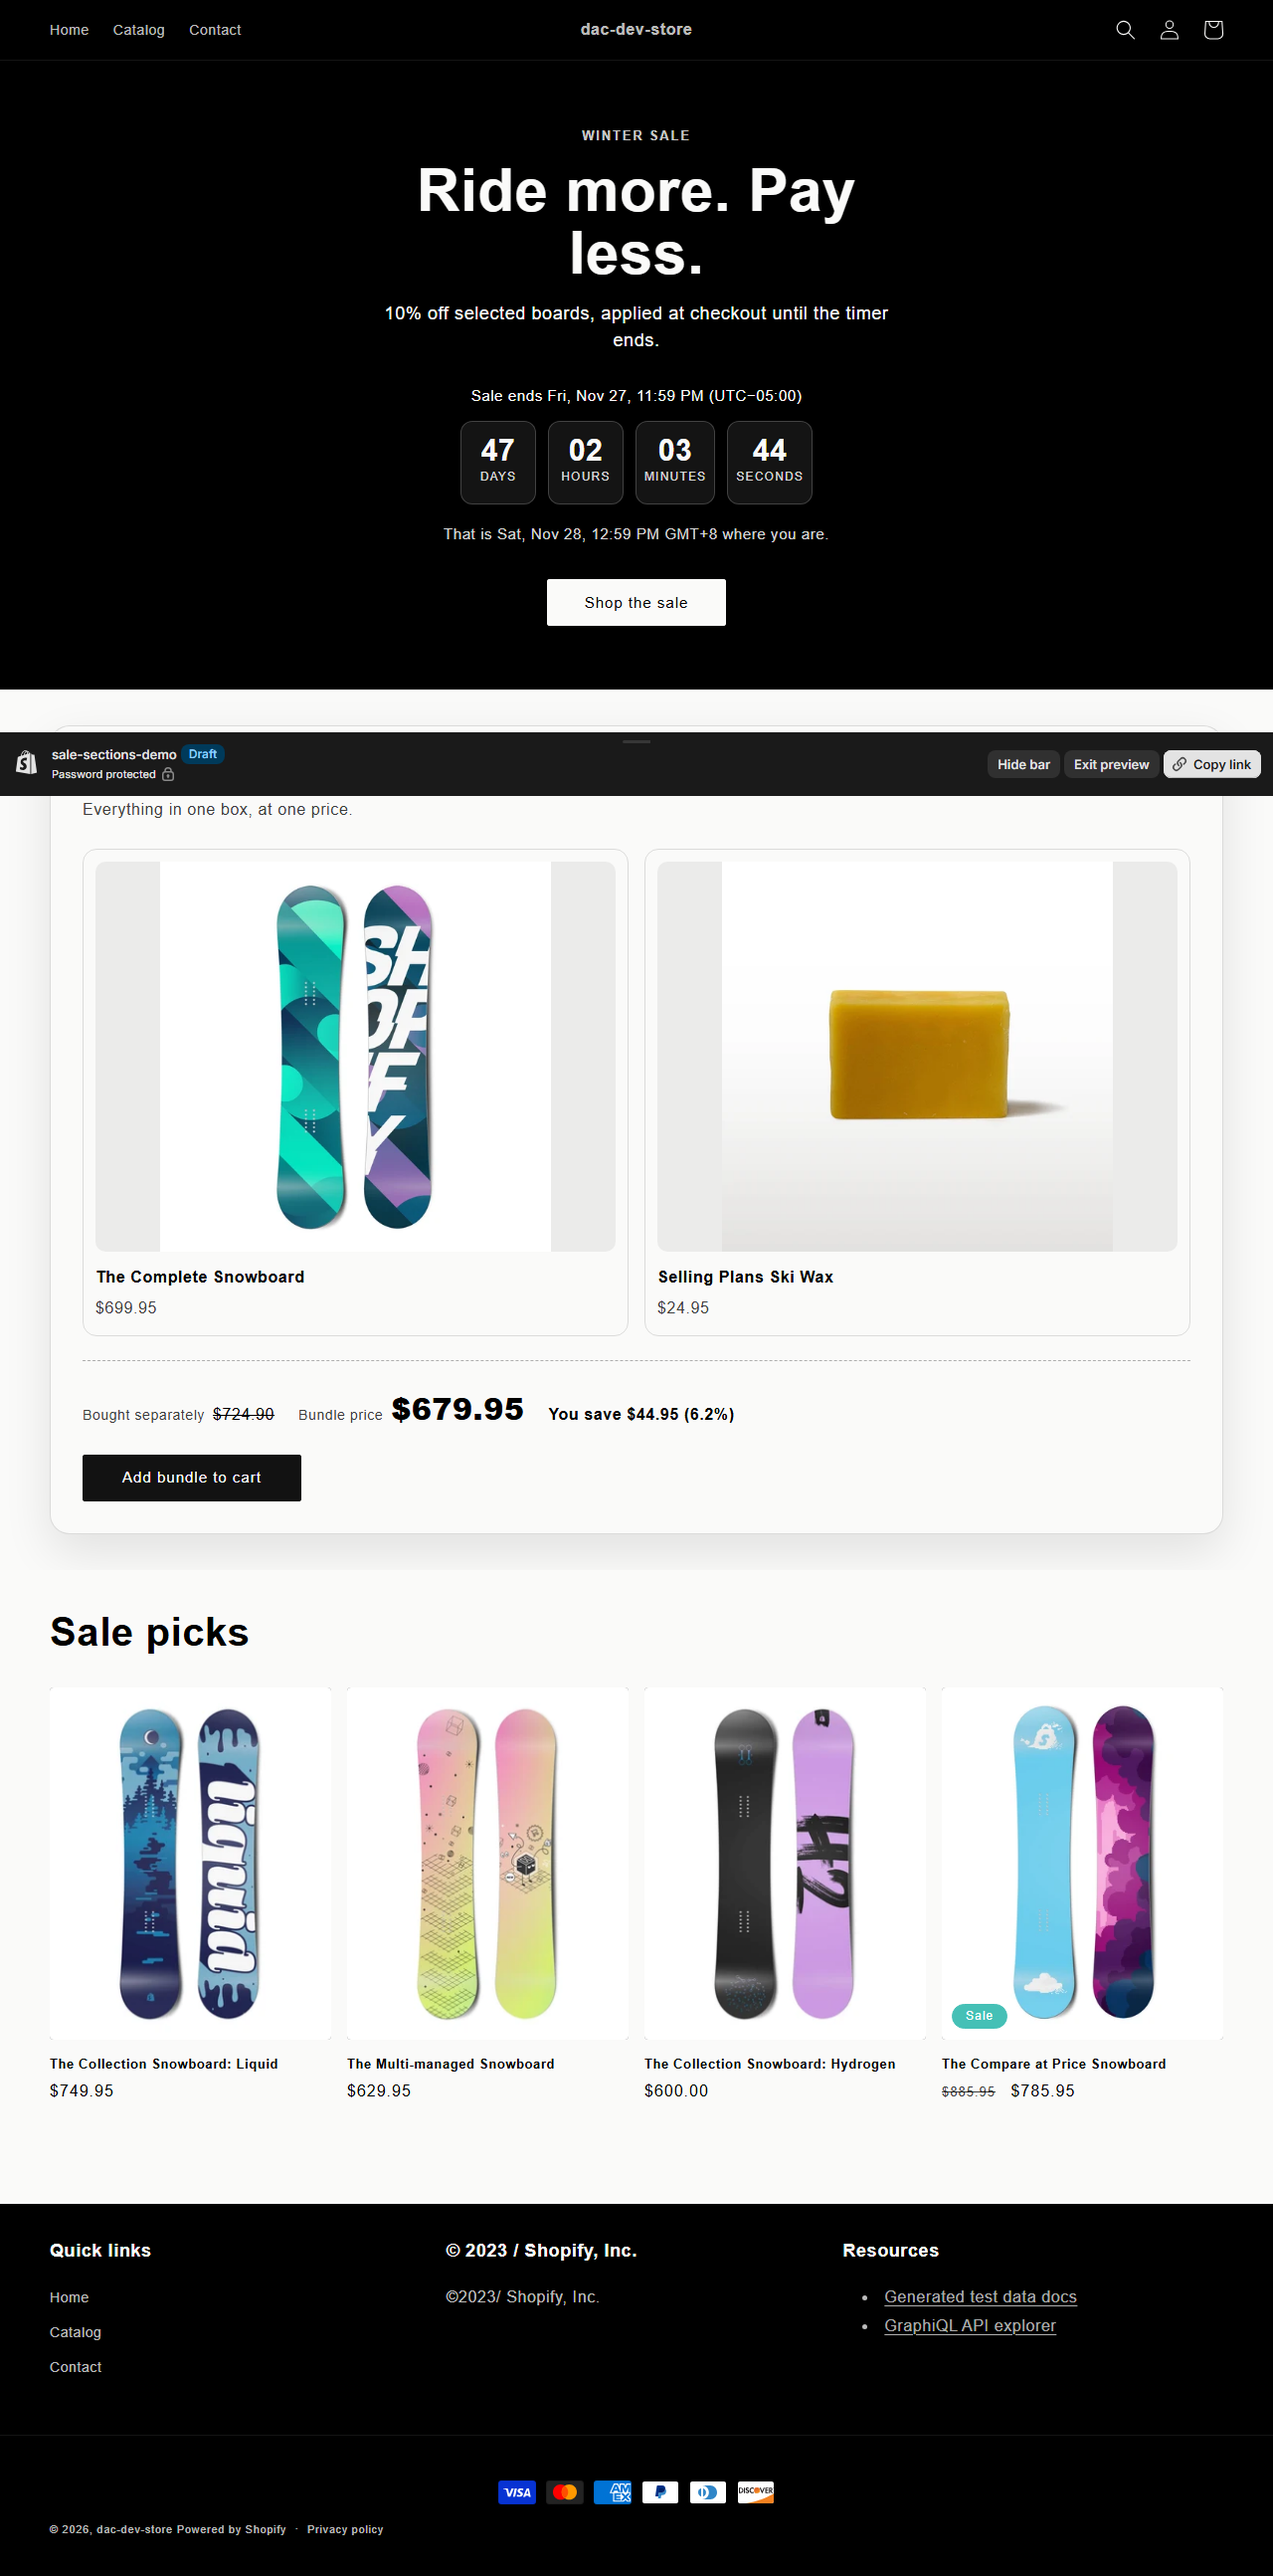
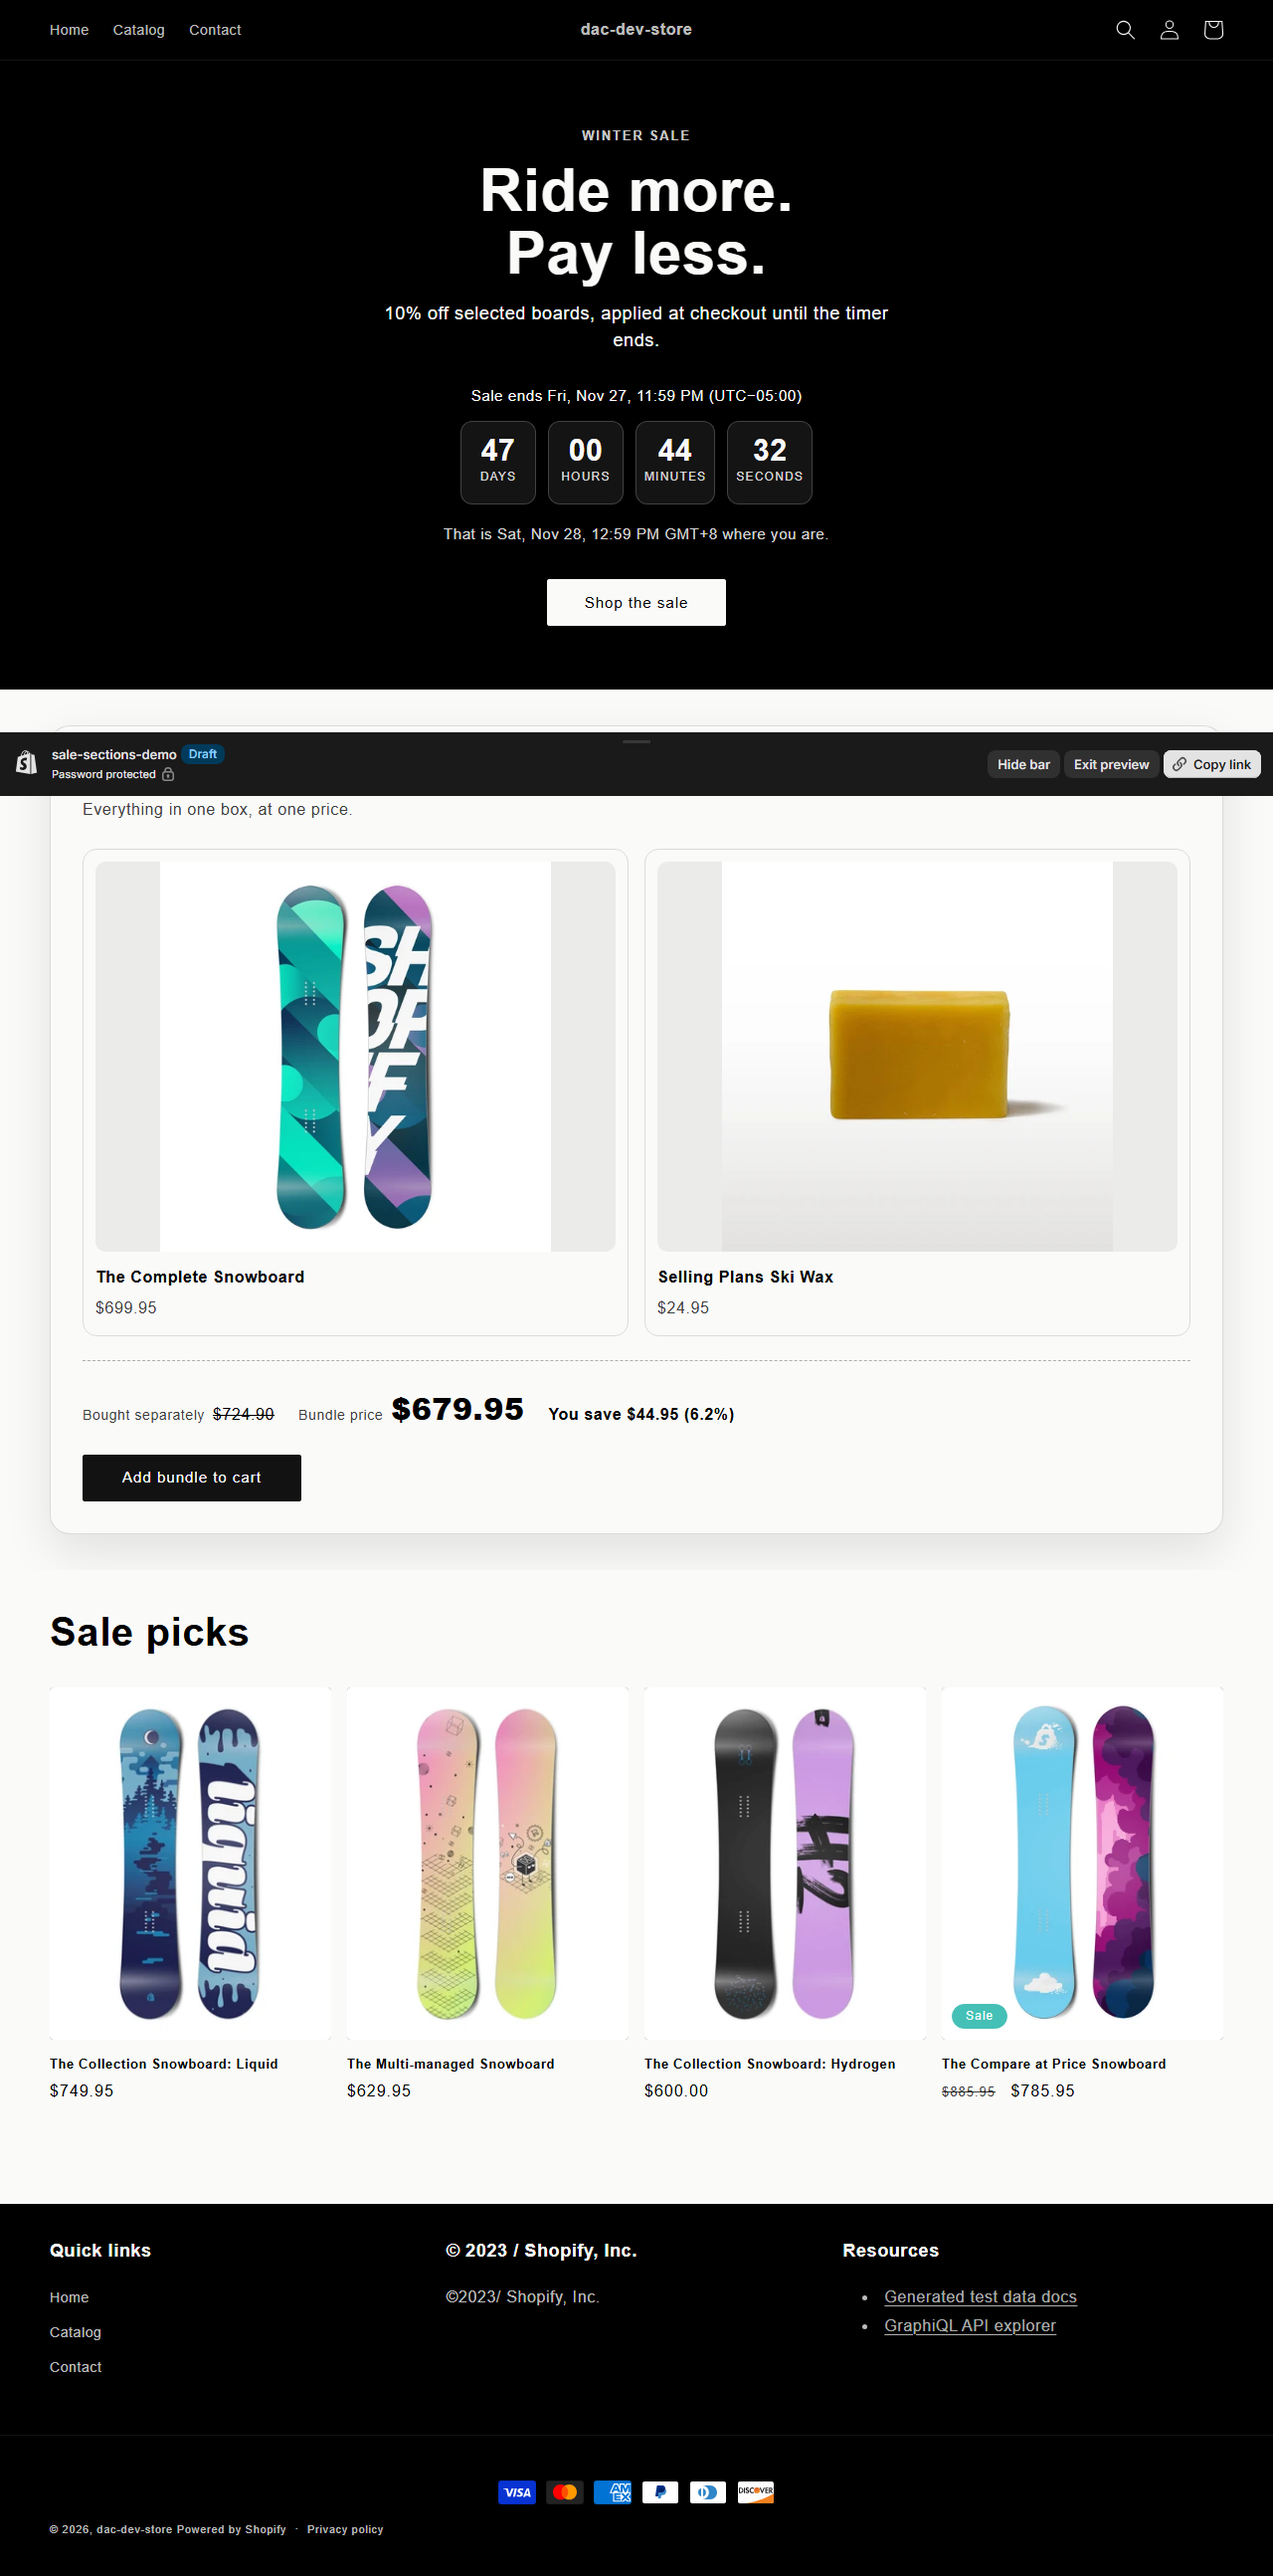
Balance the hero heading, escape the countdown label templates and take the audit password from the environment
A seventh sweep of the repo and the published page found the heading wrapping with an orphan word, two translated strings written into attributes without escaping, a stale ignore rule and a perf script that took the store password as an argument. The collection copy also said every accessory was on sale when the seed tags only four boards. The README and store-check wording now say what the checks do and do not cover.

Changed region(s): [[0.3125, 0.0618, 0.6875, 0.1236], [0.5938, 0.1545, 0.625, 0.1854]]

diff --git a/preview/sold-out.html b/preview/sold-out.html
@@ -14,7 +14,7 @@ html{font-size:62.5%}body{margin:0;font-size:1.5rem;letter-spacing:.06rem;line-h
 .preview-note{font:13px/1.4 Helvetica,Arial,sans-serif;padding:10px 16px;background:#fff8e1;color:#4a3b00;border-bottom:1px solid #e6d9a8}
 .preview-note b{font-weight:700}.preview-note a{color:inherit}</style></head>
 <body class="gradient">
-<p class="preview-note"><b>Static preview.</b> The bundle block with the wax marked unavailable. Rendered from the real Liquid files of <code>shopify-theme-lab</code> with Shopify's objects stubbed (dev store products read from its Storefront API). It is not the Shopify storefront, which sits behind a password, so the buttons and product links do nothing here. The theme's text colour is set to the source design's navy; that is the only colour change. The original page keeps its own placeholder products and prices; the render uses the dev store's real ones. See also: <a href="source">the original page Claude wrote</a>, <a href="sold-out">the sold-out state</a>, <a href="./">the rebuilt page</a>.</p>
+<p class="preview-note"><b>Static preview.</b> The bundle block with the wax marked unavailable. Rendered from the real Liquid files with Shopify's objects stubbed (dev store products read from its Storefront API). The real store is password-protected, so buttons do nothing here. Text colour set to the source's navy; prices are the dev store's. See also: <a href="source">the original page Claude wrote</a>, <a href="sold-out">the sold-out state</a>, <a href="./">the rebuilt page</a>.</p>
 <script>document.addEventListener('submit',function(e){e.preventDefault()});document.addEventListener('click',function(e){var a=e.target.closest&&e.target.closest('a[href]');if(a){var h=a.getAttribute('href');if(h==='#'||h.indexOf('/products')===0||h.indexOf('/collections')===0){e.preventDefault()}}})</script>
 <main>
 <link href="assets/section-bundle-contents.css" rel="stylesheet" type="text/css" media="all"><style data-shopify>#BundleContents-test1 {

diff --git a/preview/index.html b/preview/index.html
@@ -14,7 +14,7 @@ html{font-size:62.5%}body{margin:0;font-size:1.5rem;letter-spacing:.06rem;line-h
 .preview-note{font:13px/1.4 Helvetica,Arial,sans-serif;padding:10px 16px;background:#fff8e1;color:#4a3b00;border-bottom:1px solid #e6d9a8}
 .preview-note b{font-weight:700}.preview-note a{color:inherit}</style></head>
 <body class="gradient">
-<p class="preview-note"><b>Static preview.</b> The sale hero and the bundle block. Rendered from the real Liquid files of <code>shopify-theme-lab</code> with Shopify's objects stubbed (dev store products read from its Storefront API). It is not the Shopify storefront, which sits behind a password, so the buttons and product links do nothing here. The theme's text colour is set to the source design's navy; that is the only colour change. The original page keeps its own placeholder products and prices; the render uses the dev store's real ones. See also: <a href="source">the original page Claude wrote</a>, <a href="sold-out">the sold-out state</a>, <a href="./">the rebuilt page</a>.</p>
+<p class="preview-note"><b>Static preview.</b> The sale hero and the bundle block. Rendered from the real Liquid files with Shopify's objects stubbed (dev store products read from its Storefront API). The real store is password-protected, so buttons do nothing here. Text colour set to the source's navy; prices are the dev store's. See also: <a href="source">the original page Claude wrote</a>, <a href="sold-out">the sold-out state</a>, <a href="./">the rebuilt page</a>.</p>
 <script>document.addEventListener('submit',function(e){e.preventDefault()});document.addEventListener('click',function(e){var a=e.target.closest&&e.target.closest('a[href]');if(a){var h=a.getAttribute('href');if(h==='#'||h.indexOf('/products')===0||h.indexOf('/collections')===0){e.preventDefault()}}})</script>
 <main>
 <link href="assets/section-sale-event-hero.css" rel="stylesheet" type="text/css" media="all">

diff --git a/assets/section-sale-event-hero.css b/assets/section-sale-event-hero.css
@@ -60,6 +60,7 @@
 .sale-hero__heading {
   margin: 0 auto 1.6rem;
   max-width: 14ch;
+  text-wrap: balance;
   font-family: var(--font-heading-family);
   font-style: var(--font-heading-style);
   font-weight: var(--font-heading-weight);

diff --git a/preview/assets/section-sale-event-hero.css b/preview/assets/section-sale-event-hero.css
@@ -60,6 +60,7 @@
 .sale-hero__heading {
   margin: 0 auto 1.6rem;
   max-width: 14ch;
+  text-wrap: balance;
   font-family: var(--font-heading-family);
   font-style: var(--font-heading-style);
   font-weight: var(--font-heading-weight);

diff --git a/docs/STORE_CHECK.md b/docs/STORE_CHECK.md
@@ -7,7 +7,7 @@ its password; the theme editor was opened in a signed-in browser. Nothing below 
 
 | # | What was checked | How | Result |
 |---|---|---|---|
-| 1 | The sale landing page renders | `/pages/winter-sale-landing` | one `h1`, the hero, the bundle block and Dawn's own "Sale picks" grid; no "translation missing" text; no horizontal overflow at 390px or 1280px; a fresh load had zero failed network responses ([desktop](store-check/landing-desktop-manila.png), [phone](store-check/landing-phone-sydney.png)) |
+| 1 | The sale landing page renders | `/pages/winter-sale-landing` | one `h1`, the hero, the bundle block and Dawn's own "Sale picks" grid; no "translation missing" text; no horizontal overflow at 390px or 1280px; a fresh load had zero HTTP error responses (status 400 or above; this does not cover a request blocked before it got a status) ([desktop](store-check/landing-desktop-manila.png), [phone](store-check/landing-phone-sydney.png)) |
 | 2 | The collection template renders | `/collections/winter-sale` | the same hero with the countdown above Dawn's product grid ([screenshot](store-check/collection-desktop-manila.png)) |
 | 3 | How Shopify prints a `date_time` metafield | read `data-ends-at-utc` and `data-utc-zone` | `2026-11-27T23:59:00-05:00` and `-05:00`: Shopify renders the metafield in the shop's time zone and `%:z` prints that offset, so the end moment is the seeded `2026-11-28T04:59:00Z` whichever zone Liquid uses (this was the open question before) |
 | 4 | The sale's zone and the visitor's own time | browser set to Manila, Sydney, New York, Los Angeles and London | "Sale ends Fri, Nov 27, 11:59 PM (UTC−05:00)" with "That is Sat, Nov 28, 12:59 PM GMT+8 where you are.", "3:59 PM GMT+11", nothing extra in New York (same clock), "Fri, Nov 27, 8:59 PM PST" and "Sat, Nov 28, 4:59 AM GMT" |
@@ -18,8 +18,8 @@ its password; the theme editor was opened in a signed-in browser. Nothing below 
 | 9b | The theme's fonts carry through | changed `type_header_font` to Playfair Display and `type_body_font` to Lora in `config/settings_data.json`, read the computed families, restored the file | the hero heading and the bundle heading went from "Helvetica, Arial, sans-serif" to "Playfair Display", serif; the hero text and the bundle item names went to Lora, serif; the file read back byte-identical to the original |
 | 9 | A theme colour change carries through | changed `colors_text` in the theme's `config/settings_data.json`, read the computed colours, restored the file | the hero background and the bundle heading went from `rgb(0, 0, 0)` to `rgb(122, 31, 61)`; the file read back byte-identical to the original ([screenshot](store-check/colour-change-carries-through.png)) |
 | 10 | The theme editor | opened the template `page.sale-landing` in the editor | the template lists Sale event hero, Bundle contents and Featured collection; clicking the hero shows every setting in the schema (colour scheme, eyebrow, heading, heading level, text, sale collection, typed end time, time zone, ended message, button, image, overlay, spacing, custom CSS); the bundle section shows its settings; the Add section list offers "Bundle contents" and "Sale event hero" ([settings](store-check/editor-hero-settings.png), [Add section](store-check/editor-add-section-list.png)) |
-| 11 | Page speed | `perf/audit.mjs`, Lighthouse mobile emulation with simulated throttling, cold cache every run, five runs | median score 91 (runs 97, 86, 92, 91, 91; an independent re-run of three cold runs gave 97, 95 and 92), LCP 2.7 s, total blocking time 6 ms, CLS 0.014, 140 requests and 1.4 MB. The weight is almost all Shopify's and Dawn's own scripts, stylesheets and fonts and the preview bar (one cold load measured 1.8 MB: scripts 502 KB, stylesheets 151 KB, fonts 48 KB, images 80 KB, the rest platform requests); the three files these sections add transfer 5.2 KB (about 13 KB unzipped). Raw numbers in [`perf/sale-landing-real.json`](../perf/sale-landing-real.json) |
-| 12 | Accessibility | axe-core 4.11 on the real page at 390px and 1280px | zero violations inside `.sale-hero` and zero inside `.bundle-contents` at both widths; the whole page has one `frame-title` finding on `#PBarNextFrame`, which is Shopify's own preview-bar iframe and not part of the theme |
+| 11 | Page speed | `perf/audit.mjs`, Lighthouse mobile emulation with simulated throttling, cold cache every run, five runs | median score 91 (runs 97, 86, 92, 91, 91; an independent re-run of three cold runs gave 97, 95 and 92), LCP 2.7 s, total blocking time 6 ms, CLS 0.014, 140 requests and 1.4 MB. The weight is almost all Shopify's and Dawn's own scripts, stylesheets and fonts and the preview bar (one cold load measured 1.8 MB: scripts 502 KB, stylesheets 151 KB, fonts 48 KB, images 80 KB, and the rest, about half of the total, platform requests); the three files these sections add are 13.7 KB of source, 4.6 KB gzipped and 5.2 KB transferred with headers. Raw numbers in [`perf/sale-landing-real.json`](../perf/sale-landing-real.json) |
+| 12 | Accessibility | axe-core 4.11 on the real page at 390px and 1280px | zero violations inside `.sale-hero` and zero inside `.bundle-contents` at both widths; the whole page has one `frame-title` finding on `#PBarNextFrame`, which is Shopify's own preview-bar iframe and not part of the theme; axe also lists 7 colour-contrast items as "incomplete", which means it could not decide, not that they failed |
 
 A first Lighthouse run on 2026-10-12 reported a score of 100 for "7 requests and 82 KB" and was wrong: the audit had been scoring the password page, because forwarding a cookie header from another browser does not survive the store's redirects. `perf/audit.mjs` now logs in inside the browser Lighthouse drives, clears the cache between runs, and refuses any run that did not end on the page it was asked for.
 

diff --git a/README.md b/README.md
@@ -5,7 +5,7 @@ that fix gaps the stock theme leaves open, plus a measured performance diagnosis
 of a public storefront.
 
 Store: `dac-dev-store.myshopify.com` (development store, password-protected).
-Theme validated with Shopify's own `theme check` and pushed with the Shopify CLI.
+Checked with Shopify's own `theme check` (0 offenses on the files added here; the stock theme has its own, see "Verifying it") and pushed with the Shopify CLI.
 
 ---
 
@@ -44,6 +44,8 @@ What the sections do that the generated page did not:
   discount that varies by cart needs a Shopify Function or a bundle app. "Bought separately" is the parts' list
   price, so the parts must stay out of any discounted collection: a review found that tagging the parts into the
   10% sale made the page say "You save" while the parts were cheaper than the bundle, and the seed now keeps them out.
+
+- **The look follows the store's theme, not the original page.** The rebuilt hero takes the theme's colour scheme (black on this store's Dawn colours, navy in the static copy where the text colour is set to the source's navy) and the button is the theme's own button. The original's amber pill button, gradient and three-card product grid are not rebuilt; `docs/CONVERSION.md` lists each difference.
 
 How it was checked (figures from runs on 2026-10-12):
 
@@ -225,7 +227,7 @@ product template without leaving an orphan heading on products that have no spec
 
 **`perf/app-cost.mjs` is the useful one.** It attributes bytes and main-thread time
 to each third-party origin on a page, which turns "optimize Core Web Vitals" into a
-list sorted by cost. Run against a public industrial-supplies storefront it produced this (the raw
+list sorted by cost. Run against a public Shopify storefront it produced this (the raw
 reports are not committed, because they name that store; rerun the script against
 any public product page to reproduce the method):
 
@@ -279,7 +281,7 @@ HTML, matching it at render time did not work either. Both failures were silent.
 
 ### 4. The original diagnosis
 
-Lighthouse against a **public Shopify storefront** in the same industrial-supplies space, mobile emulation,
+Lighthouse against a **public Shopify storefront**, mobile emulation,
 simulated throttling (150 ms RTT, 1.6 Mbps, 4x CPU slowdown):
 
 | Metric | Value |
